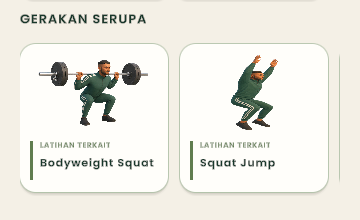
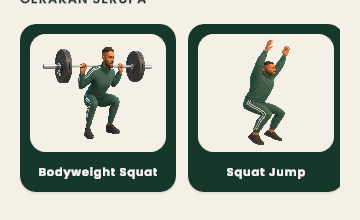
fix(ui): simplify related movement cards

diff --git a/app/Assets/App/Scripts/UI/RelatedMovementCardView.cs b/app/Assets/App/Scripts/UI/RelatedMovementCardView.cs
@@ -7,10 +7,8 @@ namespace GerakAR.UI
 {
     public static class RelatedMovementCardView
     {
-        private static readonly Color WarmWhite = new Color32(255, 254, 250, 255);
+        private static readonly Color WarmCream = new Color32(244, 240, 230, 255);
         private static readonly Color DeepForest = new Color32(18, 55, 42, 255);
-        private static readonly Color MossGreen = new Color32(96, 125, 79, 255);
-        private static readonly Color SoftSage = new Color32(169, 190, 162, 255);
 
         public static void ConfigureContainer(Transform container)
         {
@@ -31,7 +29,7 @@ namespace GerakAR.UI
 
             RectTransform contentRect = container as RectTransform;
             if (contentRect != null)
-                contentRect.sizeDelta = new Vector2(contentRect.sizeDelta.x, 160f);
+                contentRect.sizeDelta = new Vector2(contentRect.sizeDelta.x, 180f);
 
             Transform scrollView = container.parent != null ? container.parent.parent : null;
             if (scrollView == null)
@@ -39,13 +37,13 @@ namespace GerakAR.UI
 
             RectTransform scrollRect = scrollView as RectTransform;
             if (scrollRect != null)
-                scrollRect.sizeDelta = new Vector2(scrollRect.sizeDelta.x, 160f);
+                scrollRect.sizeDelta = new Vector2(scrollRect.sizeDelta.x, 180f);
 
             LayoutElement scrollLayout = scrollView.GetComponent<LayoutElement>();
             if (scrollLayout == null)
                 scrollLayout = scrollView.gameObject.AddComponent<LayoutElement>();
-            scrollLayout.minHeight = 160f;
-            scrollLayout.preferredHeight = 160f;
+            scrollLayout.minHeight = 180f;
+            scrollLayout.preferredHeight = 180f;
         }
 
         public static void Configure(GameObject card, RelatedMovementData data)
@@ -57,29 +55,26 @@ namespace GerakAR.UI
             if (cardRect != null)
             {
                 cardRect.localScale = Vector3.one;
-                cardRect.sizeDelta = new Vector2(148f, 148f);
+                cardRect.sizeDelta = new Vector2(156f, 168f);
             }
 
             LayoutElement cardLayout = card.GetComponent<LayoutElement>();
             if (cardLayout == null)
                 cardLayout = card.AddComponent<LayoutElement>();
-            cardLayout.minWidth = 148f;
-            cardLayout.preferredWidth = 148f;
-            cardLayout.minHeight = 148f;
-            cardLayout.preferredHeight = 148f;
+            cardLayout.minWidth = 156f;
+            cardLayout.preferredWidth = 156f;
+            cardLayout.minHeight = 168f;
+            cardLayout.preferredHeight = 168f;
             cardLayout.flexibleWidth = 0f;
             cardLayout.flexibleHeight = 0f;
 
             Image background = card.GetComponent<Image>();
             if (background != null)
-                background.color = WarmWhite;
+                background.color = DeepForest;
 
             Outline outline = card.GetComponent<Outline>();
             if (outline != null)
-            {
-                outline.effectColor = new Color(SoftSage.r, SoftSage.g, SoftSage.b, 0.55f);
-                outline.effectDistance = new Vector2(1f, -1f);
-            }
+                outline.enabled = false;
 
             Shadow shadow = null;
             foreach (Shadow candidate in card.GetComponents<Shadow>())
@@ -91,27 +86,63 @@ namespace GerakAR.UI
             }
             if (shadow != null)
             {
-                shadow.effectColor = new Color(0f, 0f, 0f, 0.09f);
-                shadow.effectDistance = new Vector2(0f, -3f);
+                shadow.effectColor = new Color(0f, 0f, 0f, 0.14f);
+                shadow.effectDistance = new Vector2(0f, -2f);
             }
 
-            ConfigureThumbnail(card.transform.Find("Thumbnail"), data);
-            TextMeshProUGUI title = ConfigureTitle(card.transform.Find("Title"), data);
-            ConfigureEyebrow(card.transform, title);
-            ConfigureAccent(card.transform);
+            Transform thumbnail = FindDescendant(card.transform, "Thumbnail");
+            ConfigureThumbnail(card.transform, thumbnail, background, data);
+            ConfigureTitle(FindDescendant(card.transform, "Title"), data);
+            SetOptionalDecorationActive(card.transform, "Eyebrow", false);
+            SetOptionalDecorationActive(card.transform, "Accent", false);
         }
 
-        private static void ConfigureThumbnail(Transform thumbnailTransform, RelatedMovementData data)
+        private static void ConfigureThumbnail(
+            Transform card,
+            Transform thumbnailTransform,
+            Image cardBackground,
+            RelatedMovementData data)
         {
             if (thumbnailTransform == null)
                 return;
 
+            Transform frameTransform = card.Find("ThumbnailFrame");
+            if (frameTransform == null)
+            {
+                var frameObject = new GameObject(
+                    "ThumbnailFrame",
+                    typeof(RectTransform),
+                    typeof(CanvasRenderer),
+                    typeof(Image),
+                    typeof(Mask));
+                frameTransform = frameObject.transform;
+                frameTransform.SetParent(card, false);
+            }
+
+            frameTransform.SetAsFirstSibling();
+            RectTransform frameRect = frameTransform as RectTransform;
+            frameRect.anchorMin = new Vector2(0f, 1f);
+            frameRect.anchorMax = new Vector2(1f, 1f);
+            frameRect.pivot = new Vector2(0.5f, 1f);
+            frameRect.anchoredPosition = new Vector2(0f, -10f);
+            frameRect.sizeDelta = new Vector2(-20f, 118f);
+
+            Image frame = frameTransform.GetComponent<Image>();
+            frame.sprite = cardBackground != null ? cardBackground.sprite : null;
+            frame.type = frame.sprite != null ? Image.Type.Sliced : Image.Type.Simple;
+            frame.color = WarmCream;
+            frame.raycastTarget = false;
+
+            Mask mask = frameTransform.GetComponent<Mask>();
+            mask.showMaskGraphic = true;
+
+            thumbnailTransform.SetParent(frameTransform, false);
             RectTransform rect = thumbnailTransform as RectTransform;
-            rect.anchorMin = new Vector2(0f, 1f);
-            rect.anchorMax = new Vector2(1f, 1f);
-            rect.pivot = new Vector2(0.5f, 1f);
-            rect.anchoredPosition = new Vector2(0f, -10f);
-            rect.sizeDelta = new Vector2(-20f, 78f);
+            rect.anchorMin = Vector2.zero;
+            rect.anchorMax = Vector2.one;
+            rect.pivot = new Vector2(0.5f, 0.5f);
+            rect.anchoredPosition = Vector2.zero;
+            rect.sizeDelta = new Vector2(-8f, -8f);
 
             Image image = thumbnailTransform.GetComponent<Image>();
             if (image == null)
@@ -125,7 +156,7 @@ namespace GerakAR.UI
             }
             else
             {
-                image.color = new Color(SoftSage.r, SoftSage.g, SoftSage.b, 0.48f);
+                image.color = WarmCream;
             }
         }
 
@@ -138,71 +169,45 @@ namespace GerakAR.UI
             rect.anchorMin = new Vector2(0f, 1f);
             rect.anchorMax = new Vector2(1f, 1f);
             rect.pivot = new Vector2(0.5f, 1f);
-            rect.anchoredPosition = new Vector2(5f, -111f);
-            rect.sizeDelta = new Vector2(-30f, 29f);
+            rect.anchoredPosition = new Vector2(0f, -136f);
+            rect.sizeDelta = new Vector2(-20f, 24f);
 
             TextMeshProUGUI title = titleTransform.GetComponent<TextMeshProUGUI>();
             if (title == null)
                 return null;
             title.text = data != null ? data.title : "Gerakan Terkait";
-            title.fontSize = 11f;
+            title.fontSize = 11.5f;
             title.fontStyle = FontStyles.Bold;
-            title.color = DeepForest;
-            title.alignment = TextAlignmentOptions.TopLeft;
+            title.color = Color.white;
+            title.alignment = TextAlignmentOptions.Center;
             title.textWrappingMode = TextWrappingModes.Normal;
             title.overflowMode = TextOverflowModes.Ellipsis;
             title.raycastTarget = false;
             return title;
         }
 
-        private static void ConfigureEyebrow(Transform card, TextMeshProUGUI title)
+        private static Transform FindDescendant(Transform root, string objectName)
         {
-            Transform eyebrowTransform = card.Find("Eyebrow");
-            if (eyebrowTransform == null)
+            if (root == null)
+                return null;
+            if (root.name == objectName)
+                return root;
+
+            for (int i = 0; i < root.childCount; i++)
             {
-                var eyebrowObject = new GameObject("Eyebrow", typeof(RectTransform), typeof(CanvasRenderer), typeof(TextMeshProUGUI));
-                eyebrowTransform = eyebrowObject.transform;
-                eyebrowTransform.SetParent(card, false);
+                Transform match = FindDescendant(root.GetChild(i), objectName);
+                if (match != null)
+                    return match;
             }
 
-            RectTransform rect = eyebrowTransform as RectTransform;
-            rect.anchorMin = new Vector2(0f, 1f);
-            rect.anchorMax = new Vector2(1f, 1f);
-            rect.pivot = new Vector2(0.5f, 1f);
-            rect.anchoredPosition = new Vector2(5f, -95f);
-            rect.sizeDelta = new Vector2(-30f, 12f);
-
-            TextMeshProUGUI eyebrow = eyebrowTransform.GetComponent<TextMeshProUGUI>();
-            eyebrow.text = "LATIHAN TERKAIT";
-            eyebrow.font = title != null ? title.font : eyebrow.font;
-            eyebrow.fontSize = 7.5f;
-            eyebrow.fontStyle = FontStyles.Bold;
-            eyebrow.color = MossGreen;
-            eyebrow.alignment = TextAlignmentOptions.Left;
-            eyebrow.textWrappingMode = TextWrappingModes.NoWrap;
-            eyebrow.raycastTarget = false;
+            return null;
         }
 
-        private static void ConfigureAccent(Transform card)
+        private static void SetOptionalDecorationActive(Transform card, string objectName, bool active)
         {
-            Transform accentTransform = card.Find("Accent");
-            if (accentTransform == null)
-            {
-                var accentObject = new GameObject("Accent", typeof(RectTransform), typeof(CanvasRenderer), typeof(Image));
-                accentTransform = accentObject.transform;
-                accentTransform.SetParent(card, false);
-            }
-
-            RectTransform rect = accentTransform as RectTransform;
-            rect.anchorMin = new Vector2(0f, 1f);
-            rect.anchorMax = new Vector2(0f, 1f);
-            rect.pivot = new Vector2(0f, 1f);
-            rect.anchoredPosition = new Vector2(10f, -97f);
-            rect.sizeDelta = new Vector2(3f, 39f);
-
-            Image accent = accentTransform.GetComponent<Image>();
-            accent.color = MossGreen;
-            accent.raycastTarget = false;
+            Transform decoration = card.Find(objectName);
+            if (decoration != null)
+                decoration.gameObject.SetActive(active);
         }
     }
 }